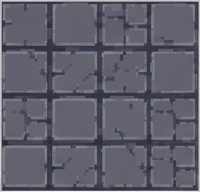
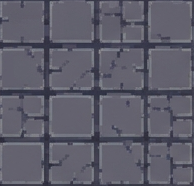
Fix game-area scaling, room layout, and background seam artifacts
Three issues from a screenshot review of the layout overhaul:

1. Characters were too small next to the station/counter — worker and
   customer sprites scaled up ~2.4x (34x42 -> 82x101, 36x42 -> 86x101),
   with matching bumps to the craft/patience bars, order bubble, and
   coin-drop icon so nothing looks undersized next to them.

2. Room positioning didn't read as an Eatventure-style shop: the
   station is now anchored to the top (workspace), a narrower centered
   counter bar sits near the bottom (front of shop), and the open
   middle is where the blacksmith walks up/down between them. Customers
   now spawn off the bottom edge and walk straight up into a queue line
   that's centered as a whole block (instead of spawning off the right
   edge and walking in horizontally), and walk back down off the bottom
   edge when they leave. All three zones share the same horizontal
   center line.

3. Root-caused the white line splitting the scene: it wasn't a CSS
   background-size rounding issue (the two-layer-into-one-element
   percentage sizing was replaced with fixed-px separate layers first,
   which didn't fix it either) — it was a bright edge column/row baked
   into tile_wood_wall.png and tile_stone_floor.png themselves, left
   over from their original sprite-sheet extraction, that lit up every
   repeat/junction when tiled. Trimmed the 3px bright border from all
   four edges of both tile PNGs; verified edge brightness now matches
[…]

diff --git a/games/blacksmith-tycoon.html b/games/blacksmith-tycoon.html
@@ -42,10 +42,33 @@
     flex: 6;
     overflow: hidden;
     image-rendering: pixelated;
-    background-image: url('assets/blacksmith/tile_wood_wall.png'), url('assets/blacksmith/tile_stone_floor.png');
-    background-repeat: repeat-x, repeat-x;
-    background-position: top left, bottom left;
-    background-size: auto 55%, auto 55%;
+    background: #8a6b3f; /* กันโหว่ขาว ถ้ามีช่องว่างเล็กน้อยระหว่างเลเยอร์พื้นหลังก็จะกลืนเป็นสีไม้แทน ไม่โผล่ขาว */
+  }
+  /* พื้นหลังฉาก แยกเป็น 2 เลเยอร์ div ต่างหาก (ไม่ใช้ multi background-image บน element เดียวแบบเดิม)
+     เดิมใช้ background-size เป็น % ของความสูง container ที่เป็นเลขทศนิยม (เช่น 489.59375px) ทำให้ pattern
+     ไม่ลงตัวพอดีพิกเซล เกิดเป็นเส้นตะเข็บสีอ่อนพาดกลางจอทั้งแนวตั้ง (รอยต่อระหว่างการ repeat) และแนวนอน
+     (รอยต่อระหว่างเลเยอร์ผนัง/พื้น) — แก้โดยกำหนด background-size เป็นพิกเซลตายตัว (เลขเต็ม) + repeat เต็มรูปแบบ
+     บนเลเยอร์แยกที่ตำแหน่ง top/bottom ชนกันพอดีเป๊ะ ไม่มีช่องว่างให้เห็นสีขาวโผล่ */
+  .scene-bg {
+    position: absolute;
+    left: 0; right: 0;
+    z-index: 0;
+    image-rendering: pixelated;
+    background-repeat: repeat;
+  }
+  .scene-bg--wall {
+    top: 0;
+    height: 46%;
+    background-image: url('assets/blacksmith/tile_wood_wall.png');
+    background-size: 128px 128px;
+    background-position: top left;
+  }
+  .scene-bg--floor {
+    top: 46%;
+    bottom: 0;
+    background-image: url('assets/blacksmith/tile_stone_floor.png');
+    background-size: 128px 128px;
+    background-position: top left;
   }
   .stand-tint-overlay {
     position: absolute;
@@ -107,15 +130,16 @@
   }
   .btn-tertiary:active { transform: translate(2px, 2px); box-shadow: none; }
 
-  /* ===== Room layout: Station อยู่บน (หลังร้าน) / เคาน์เตอร์+คิวอยู่ล่าง (หน้าร้าน) ===== */
+  /* ===== Room layout (มุมมองแบบ Eatventure, ล่างขึ้นบน, ทุกอย่าง center แนวนอน) =====
+     บน = สถานีผลิต (หลังร้าน) / กลาง = พื้นที่ว่างให้ Blacksmith วิ่งขึ้นลง / ล่าง = เคาน์เตอร์รับออเดอร์ (หน้าร้าน) */
   .stand-booth {
     position: absolute;
     z-index: 2;
-    top: 6%;
+    top: 4%;
     left: 50%;
     transform: translateX(-50%);
-    width: 38%;
-    max-width: 150px;
+    width: 42%;
+    max-width: 190px;
     height: auto;
     image-rendering: pixelated;
     cursor: pointer;
@@ -131,26 +155,28 @@
     100% { transform: translateX(-50%) scale(1); }
   }
 
-  /* เคาน์เตอร์รับออเดอร์ — แถบยาวขวางด้านล่างของฉาก (ไม่มี asset เคาน์เตอร์แยกให้ วาดด้วย CSS) */
+  /* เคาน์เตอร์รับออเดอร์ — อยู่โซนล่างสุด (เหนือจุดเกิดลูกค้าเล็กน้อย) จัดกึ่งกลางแนวนอน ไม่ใช้แบบยาวจรดขอบจอ
+     (ไม่มี asset เคาน์เตอร์แยกให้ วาดด้วย CSS) */
   .shop-counter {
     position: absolute;
     z-index: 2;
-    left: 4%;
-    right: 4%;
-    top: 76%;
-    height: 20px;
-    border-radius: 3px;
+    left: 16%;
+    right: 16%;
+    top: 78%;
+    height: 26px;
+    border-radius: 4px;
     background: linear-gradient(180deg, #c98a45, #8a5a2c);
     border: 3px solid #2c1c0c;
     box-shadow: 0 4px 0 rgba(0,0,0,0.4);
   }
 
-  /* ===== Worker (ผู้เล่น/พนักงาน) — เดินขึ้นไปทำของที่ Station แล้วเดินลงมาส่ง/เก็บเหรียญที่เคาน์เตอร์ ===== */
+  /* ===== Worker (ผู้เล่น/พนักงาน) — เดินขึ้นไปทำของที่ Station แล้วเดินลงมาส่ง/เก็บเหรียญที่เคาน์เตอร์
+     ขยายขนาดตัวละครขึ้น ~2.4 เท่าจากเดิม ให้สมดุลกับขนาดโต๊ะ/เคาน์เตอร์ ===== */
   .worker-layer { position: absolute; inset: 0; z-index: 3; pointer-events: none; }
   .worker {
     position: absolute;
     left: 0; top: 0;
-    width: 34px; height: 42px;
+    width: 82px; height: 101px;
     will-change: transform;
   }
   .worker-body { width: 100%; height: 100%; }
@@ -163,9 +189,9 @@
   .worker.facing-left .worker-body img { transform: scaleX(-1); }
   .worker.staff .worker-body img { filter: drop-shadow(0 3px 2px rgba(0,0,0,0.3)) hue-rotate(150deg) saturate(1.3); }
   .worker-craft-bar-bg {
-    position: absolute; top: -10px; left: 50%; transform: translateX(-50%);
-    width: 30px; height: 5px;
-    background: rgba(0,0,0,0.3); border-radius: 3px; overflow: hidden;
+    position: absolute; top: -14px; left: 50%; transform: translateX(-50%);
+    width: 62px; height: 8px;
+    background: rgba(0,0,0,0.3); border-radius: 4px; overflow: hidden;
     opacity: 0; transition: opacity 0.15s ease;
   }
   .worker-craft-bar-bg.show { opacity: 1; }
@@ -237,8 +263,8 @@
   .customer {
     position: absolute;
     left: 0; top: 0;
-    width: 36px;
-    height: 42px;
+    width: 86px;
+    height: 101px;
     will-change: transform;
   }
   .customer-body { width: 100%; height: 100%; }
@@ -247,19 +273,19 @@
   .customer.facing-left .customer-img { transform: scaleX(-1); }
   .customer-bubble {
     position: absolute;
-    top: -20px;
+    top: -40px;
     left: 50%;
     transform: translateX(-50%);
-    width: 20px; height: 20px;
+    width: 34px; height: 34px;
     opacity: 0;
     transition: opacity 0.2s ease, top 0.2s ease;
   }
   .customer-bubble img { width: 100%; height: 100%; object-fit: contain; image-rendering: pixelated; }
-  .customer-bubble.show { opacity: 1; top: -26px; }
+  .customer-bubble.show { opacity: 1; top: -48px; }
   .customer-patience-bg {
-    position: absolute; top: -9px; left: 50%; transform: translateX(-50%);
-    width: 28px; height: 5px;
-    background: rgba(0,0,0,0.3); border-radius: 3px; overflow: hidden;
+    position: absolute; top: -14px; left: 50%; transform: translateX(-50%);
+    width: 58px; height: 8px;
+    background: rgba(0,0,0,0.3); border-radius: 4px; overflow: hidden;
     opacity: 0; transition: opacity 0.15s ease;
   }
   .customer-patience-bg.show { opacity: 1; }
@@ -269,7 +295,7 @@
   .coin-drop {
     position: absolute;
     left: 0; top: 0;
-    width: 18px; height: 18px;
+    width: 26px; height: 26px;
     z-index: 4;
     pointer-events: none;
   }
@@ -457,6 +483,8 @@
 <body>
 
 <div class="game-area" id="standStageView">
+  <div class="scene-bg scene-bg--wall"></div>
+  <div class="scene-bg scene-bg--floor"></div>
   <div class="stand-tint-overlay" id="standTintOverlay"></div>
   <div class="shop-counter"></div>
   <div class="customer-lane" id="customerLane"></div>
@@ -721,7 +749,9 @@ function playSfxTap() { playTone(700, 0.03, 'square', 0.05); }
    คำนวณจากขนาดจริงของ .game-area เพื่อรองรับ resize/responsive
    ===================================================================== */
 const scene = { width: 300, height: 400 };
-const ZONES = { stationXPct: 0.5, stationYPct: 0.30, counterYPct: 0.80, idleYPct: 0.60 };
+// จุดที่ 4 สถานีผลิต (บน) -> จุดที่ 3 พื้นที่ว่างให้เดินขึ้นลง (กลาง) -> จุดที่ 2 เคาน์เตอร์ (ล่าง ใกล้จุดเกิดลูกค้า)
+// ทุกจุด center แนวนอนที่ 0.5 ของความกว้างเหมือนกันหมด ตามที่ระบุ
+const ZONES = { stationXPct: 0.5, stationYPct: 0.22, counterYPct: 0.80, idleYPct: 0.52 };
 
 function updateSceneMetrics() {
   const view = document.getElementById('standStageView');
@@ -730,21 +760,24 @@ function updateSceneMetrics() {
   scene.height = view.clientHeight || scene.height;
 }
 function stationPos(workerIndex) {
-  return { x: scene.width * ZONES.stationXPct + (workerIndex || 0) * 26 - 13, y: scene.height * ZONES.stationYPct };
+  return { x: scene.width * ZONES.stationXPct + (workerIndex || 0) * 30 - 15, y: scene.height * ZONES.stationYPct };
 }
 function counterLineY() {
   return scene.height * ZONES.counterYPct;
 }
 function idlePos(workerIndex) {
-  return { x: scene.width * 0.5 + (workerIndex || 0) * 20 - 10, y: scene.height * ZONES.idleYPct };
+  return { x: scene.width * 0.5 + (workerIndex || 0) * 24 - 12, y: scene.height * ZONES.idleYPct };
 }
+// จุดที่ 1: คิวลูกค้าเรียงเป็นแถวแนวนอนหน้าเคาน์เตอร์ แต่จัดทั้งแถว "กึ่งกลางจอ" แทนการเริ่มจากขอบขวาแบบเดิม
+// ตำแหน่งคงที่ตาม maxSlots (ไม่ใช่จำนวนคิวปัจจุบัน) กันไม่ให้ลูกค้าที่ยืนอยู่แล้วขยับตำแหน่งเมื่อคิวอื่นเข้า/ออก
 function queueSlotPos(slotIndex) {
   const y = counterLineY();
   const maxSlots = Math.max(1, getMaxQueueSize());
   const usableWidth = Math.max(60, scene.width - 40);
-  const spacing = Math.min(44, usableWidth / maxSlots);
-  const startX = scene.width - 26;
-  const x = Math.max(18, startX - slotIndex * spacing);
+  const spacing = Math.min(56, usableWidth / maxSlots);
+  const totalWidth = spacing * maxSlots;
+  const startX = (scene.width - totalWidth) / 2 + spacing / 2;
+  const x = Math.max(20, Math.min(scene.width - 20, startX + slotIndex * spacing));
   return { x, y };
 }
 
@@ -830,9 +863,12 @@ function spawnCustomerEntity() {
     '<div class="customer-body"><img class="customer-img" alt=""></div>';
   el.querySelector('.customer-img').src = getRandomCustomerImg();
   document.getElementById('customerLane').appendChild(el);
+  // จุดที่ 1: เกิดจากขอบล่างสุดของ Game Area (นอกจอ) แล้วเดินขึ้น — spawn ตรง X ของคิวที่จะไปยืนไว้เลย
+  // เพื่อให้การเดินเข้าคิวเป็นแนวดิ่งตรงๆ ขึ้นมาหาเคาน์เตอร์ ไม่ใช่เดินเฉียงจากขอบขวาแบบเดิม
+  const spawnX = queueSlotPos(slotIndex).x;
   const cust = {
-    id, el, slotIndex, state: 'QUEUED', facing: -1,
-    x: scene.width + 24, y: counterLineY(),
+    id, el, slotIndex, state: 'QUEUED', facing: 1,
+    x: spawnX, y: scene.height + 40,
     orderIcon: null, orderRevenue: 0, orderTip: 0, patienceStartAt: 0,
   };
   customers.push(cust);
@@ -1004,7 +1040,8 @@ function tickWorkers(dt) {
 function tickCustomers(dt) {
   customers.forEach(cust => {
     if (cust.state === 'PAID_LEAVING') {
-      const target = { x: scene.width + 24, y: cust.y };
+      // เดินกลับลงขอบล่างสุด (จุดเดียวกับที่เกิดขึ้นมา) แทนการเดินออกขอบขวาแบบเดิม
+      const target = { x: cust.x, y: scene.height + 40 };
       const arrived = moveToward(cust, target, CUSTOMER_WALK_SPEED_PX * 1.3, dt);
       renderCustomerTransform(cust, !arrived);
       if (arrived) removeCustomerEl(cust);
